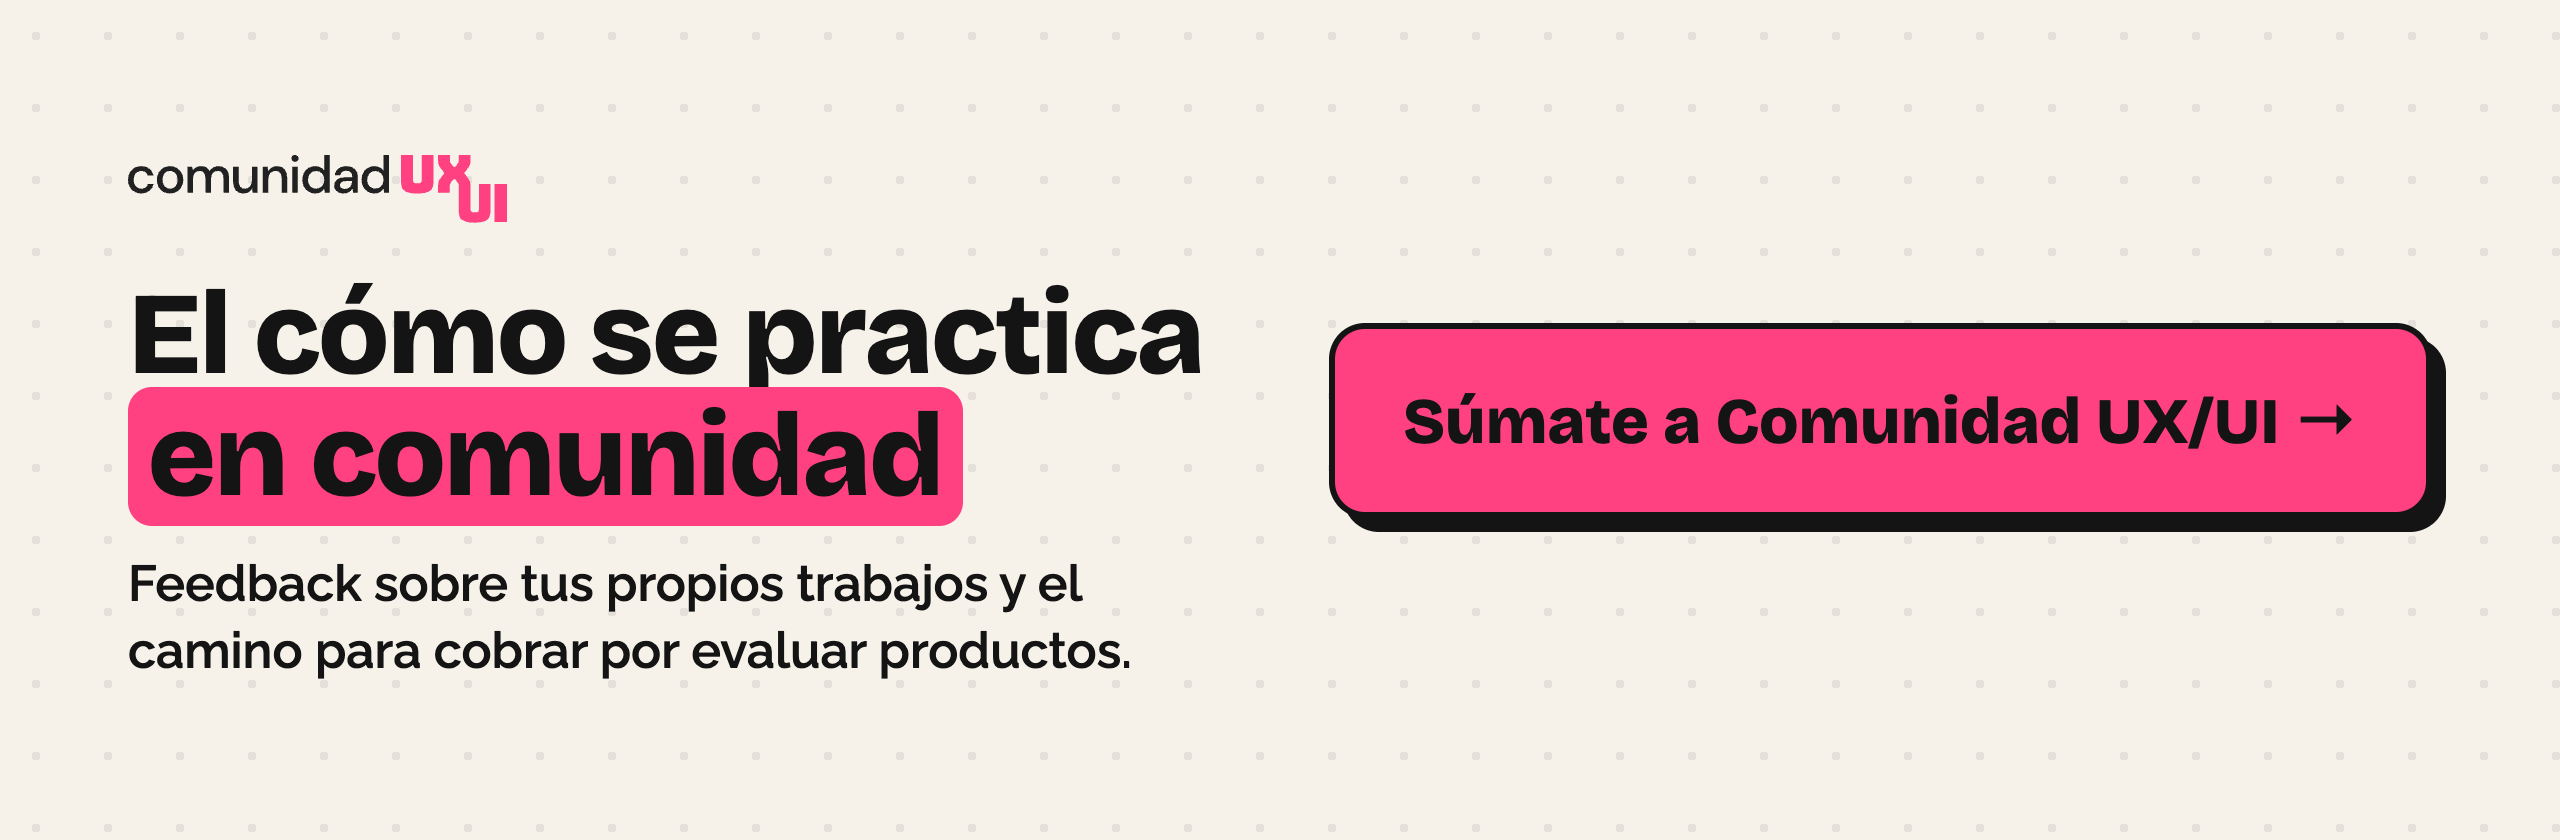
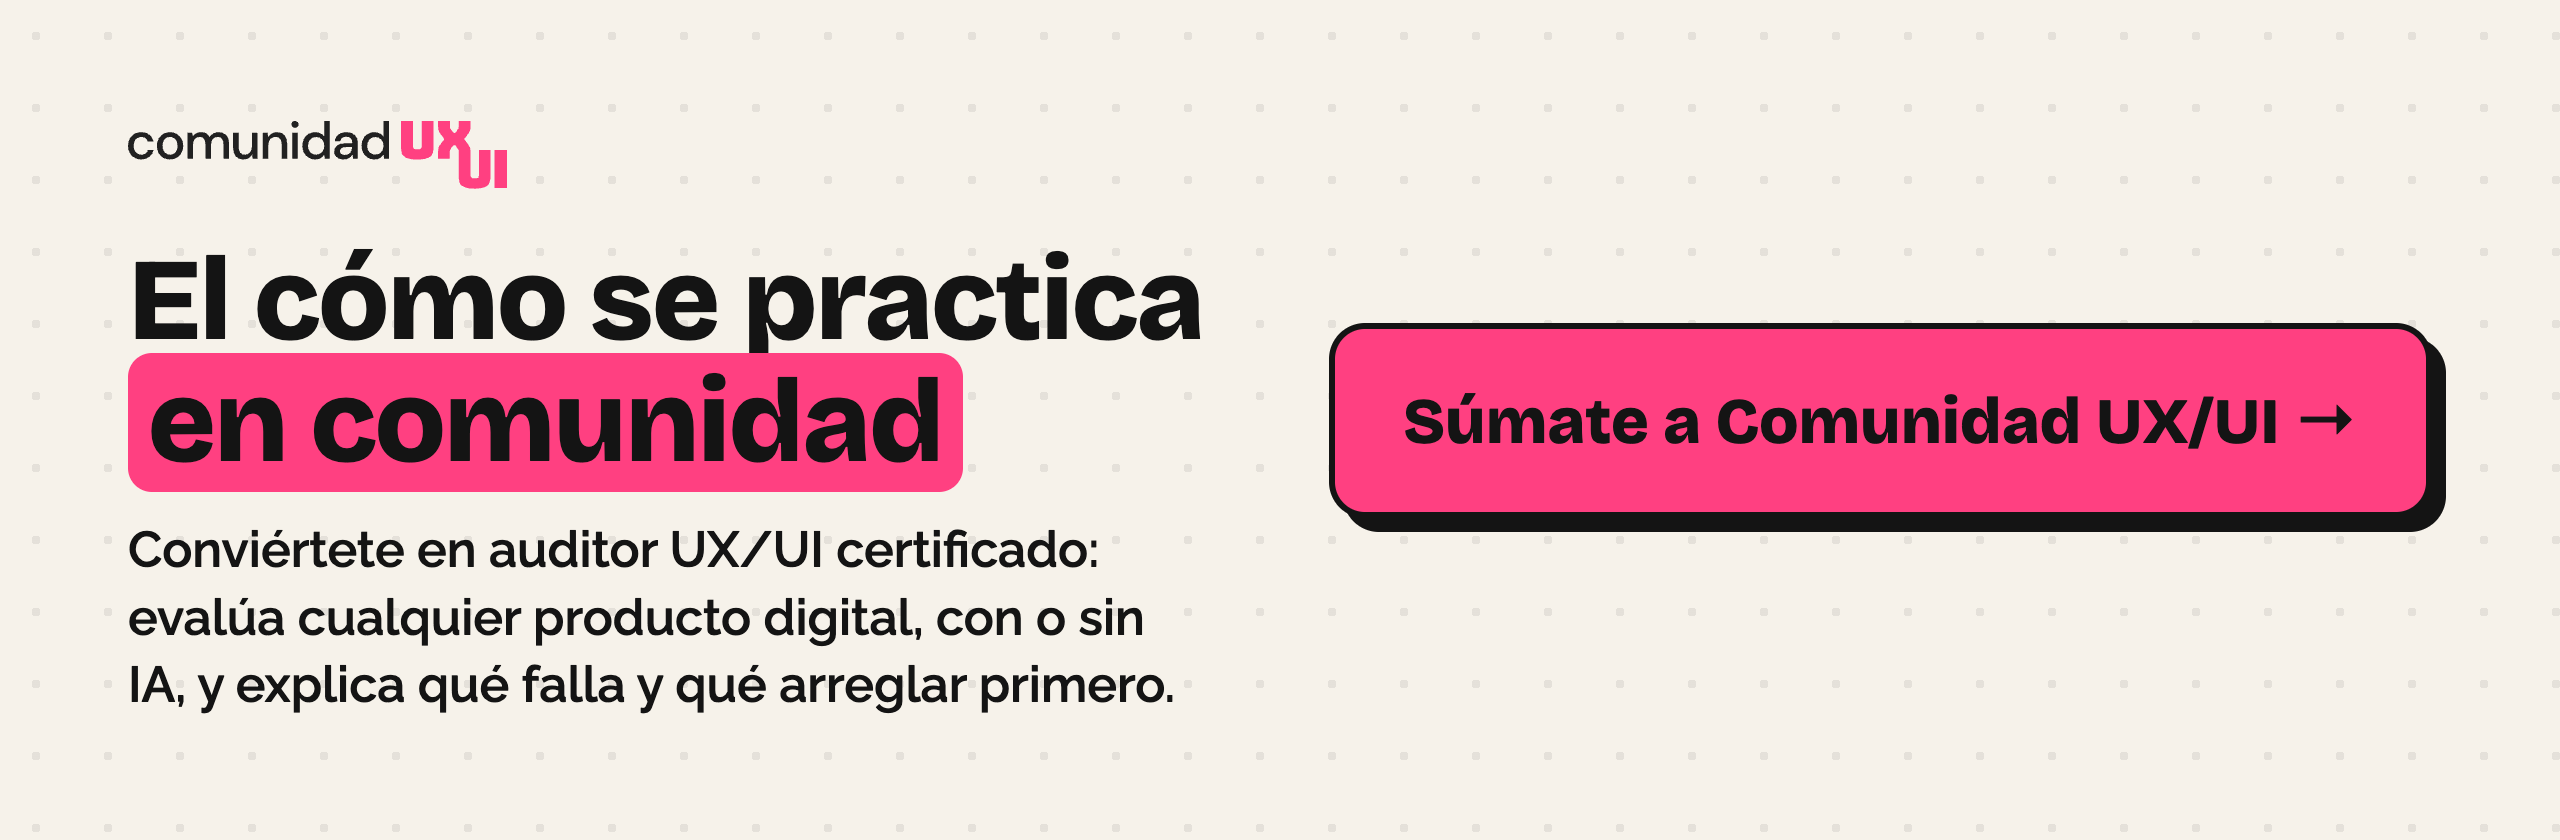
Invitación con la descripción vigente: auditor UX/UI certificado

Changed region(s): [[0.0312, 0.3095, 0.4688, 0.8357], [0.0312, 0.1238, 0.2188, 0.2786]]

diff --git a/README.md b/README.md
@@ -118,9 +118,9 @@ Cada skill lleva adentro una copia de las reglas que usa, para funcionar sola. S
 
 ---
 
-## Del informe a cobrar por evaluar productos
+## Del informe a auditor certificado
 
-Estas skills te dan el método. Saber qué hallazgo importa, cómo defenderlo frente a un cliente y cómo cobrar por evaluar productos es lo que practicamos en **[Comunidad UX/UI](https://www.skool.com/comunidaduxui/about)**, con feedback sobre tus propias auditorías.
+Estas skills te dan el método. Saber qué hallazgo importa, cómo defenderlo frente a un cliente y cómo presentarlo para que quien decide sepa qué hacer es lo que practicamos en **[Comunidad UX/UI](https://www.skool.com/comunidaduxui/about)**, donde te conviertes en auditor UX/UI certificado.
 
 <p align="center"><a href="https://www.skool.com/comunidaduxui/about"><img src="docs/cta-comunidad.png" alt="Súmate a Comunidad UX/UI" width="100%"></a></p>
 
